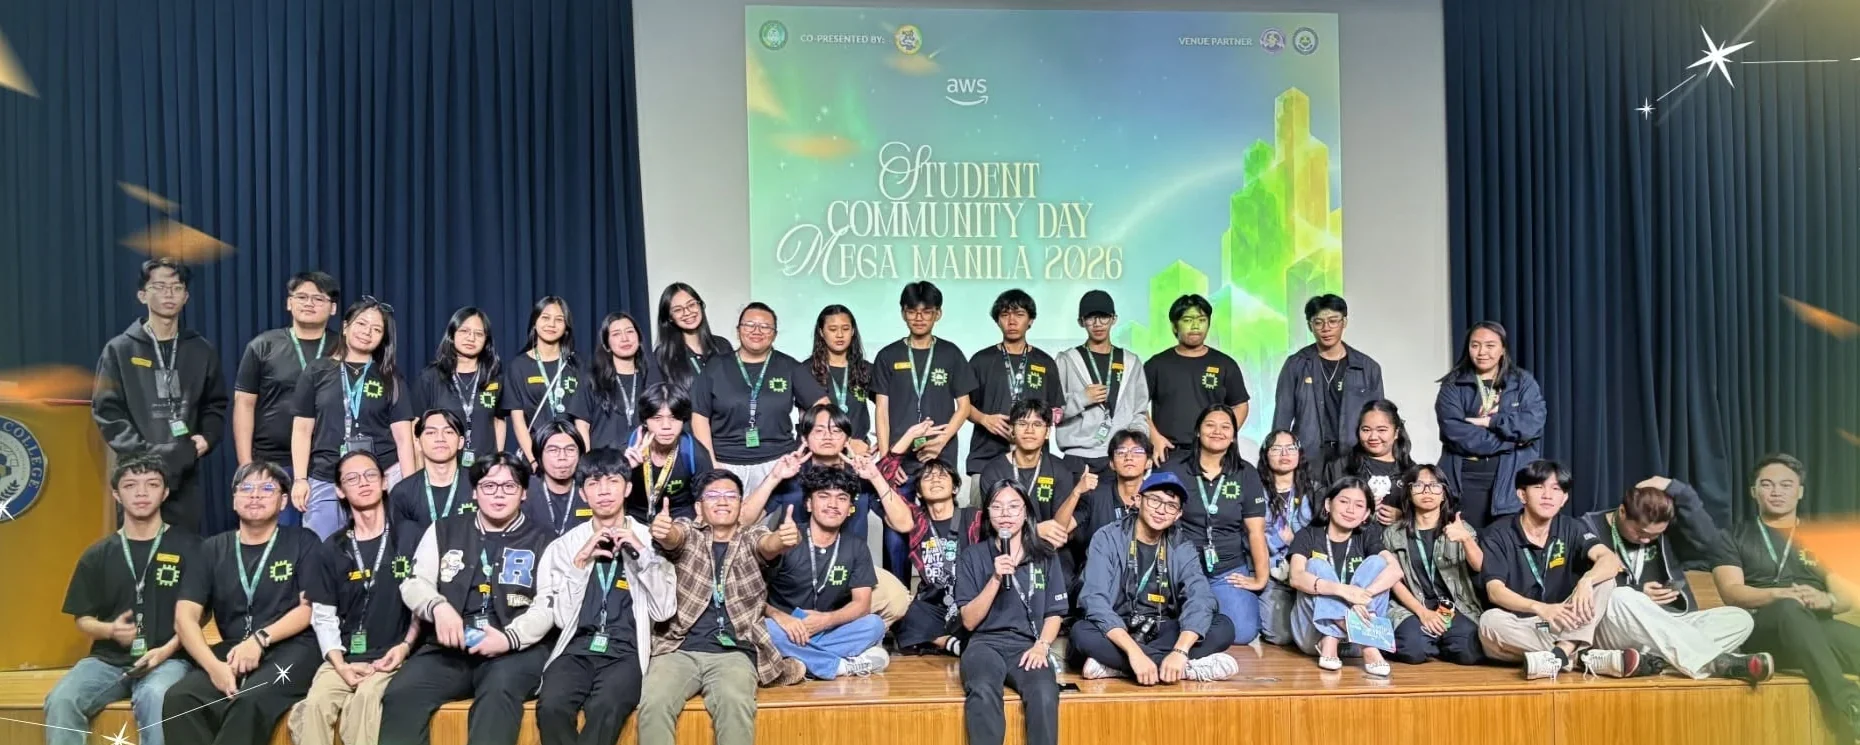
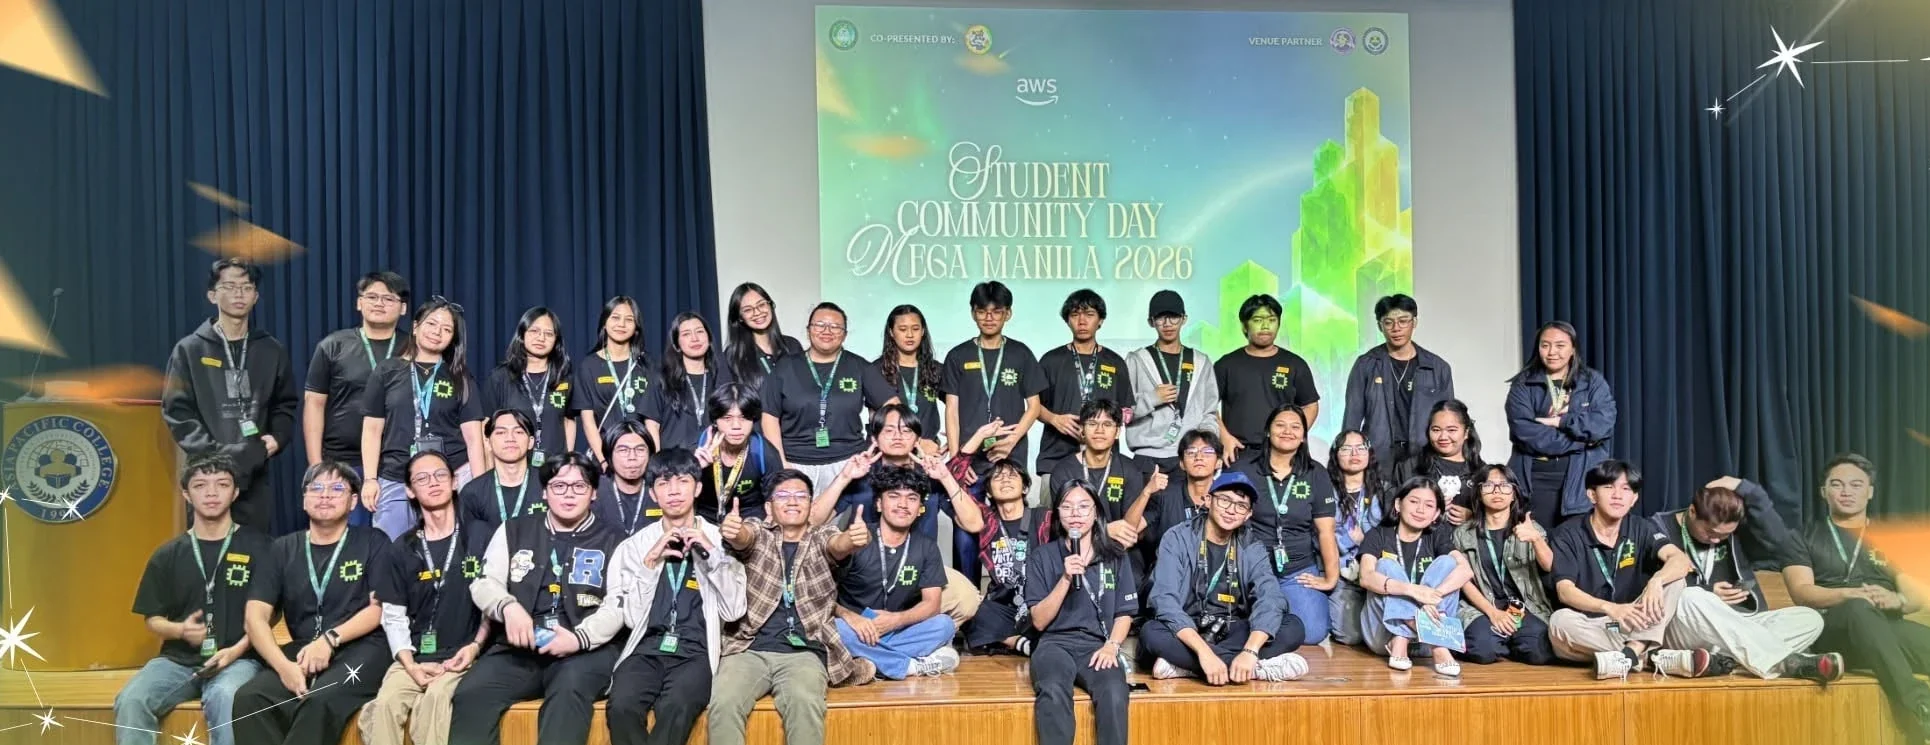
keep left side of Mega Manila team photo visible in thumbnails

diff --git a/index.html b/index.html
@@ -456,7 +456,7 @@
                 </div>
                 <div class="bento-card">
                     <button type="button" class="side-quest-photo-btn" data-photos="images/2026/mega-manila-2026-team.webp | images/2026/mega-manila-2026-attendees.webp" aria-label="View photos from AWS Student Community Day Mega Manila 2026">
-                        <img src="images/2026/mega-manila-2026-team.webp" alt="Organizers and volunteers of AWS Student Community Day Mega Manila 2026 on stage at Asia Pacific College" class="side-quest-photo" loading="lazy">
+                        <img src="images/2026/mega-manila-2026-team.webp" alt="Organizers and volunteers of AWS Student Community Day Mega Manila 2026 on stage at Asia Pacific College" class="side-quest-photo photo-focus-left" loading="lazy">
                     </button>
                     <div class="card-icon"><i class="fab fa-aws"></i></div>
                     <h3>AWS Student Community Day Mega Manila 2026</h3>
@@ -692,7 +692,7 @@
                 <p class="gallery-note gallery-intro">My 2026 beyond campus: community days, hackathons, and tech events where I volunteered, organized, and took photos.</p>
                 <div class="bento-grid gallery-grid">
                     <div class="bento-card gallery-card wide">
-                        <img src="images/2026/mega-manila-2026-team.webp" alt="Organizers and volunteers of AWS Student Community Day Mega Manila 2026 on stage at Asia Pacific College" class="gallery-image" loading="lazy">
+                        <img src="images/2026/mega-manila-2026-team.webp" alt="Organizers and volunteers of AWS Student Community Day Mega Manila 2026 on stage at Asia Pacific College" class="gallery-image photo-focus-left" loading="lazy">
                         <div class="gallery-overlay">
                             <p>Mega Manila: Organizers &amp; Volunteers</p>
                         </div>

diff --git a/styles.css b/styles.css
@@ -983,6 +983,11 @@ body {
     font-style: italic;
 }
 
+/* Keep the left side of a wide photo in view when the thumbnail crops it */
+.photo-focus-left {
+    object-position: left center;
+}
+
 .gallery-intro {
     margin-top: 0;
     margin-bottom: 2rem;
